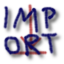
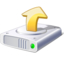
make all the buttons look nice

diff --git a/mapiphany.css b/mapiphany.css
@@ -248,14 +248,88 @@ a {
     fill: transparent;
 }
 
-input[name=save] {
-    background-image: url('stock_save_22.png');
+input[name=undo] {
+    background-image: url('action-undo.png');
     border: none;
+    width: 24px;
+    height: 24px;
+    background-color: white;
+}
+
+input[name=undo]:hover {
+    background-image: url('action-undo-hover.png');
+}
+
+input[name=redo] {
+    background-image: url('action-redo.png');
+    border: none;
+    width: 24px;
+    height: 24px;
+    background-color: white;
+}
+
+input[name=redo]:hover {
+    background-image: url('action-redo-hover.png');
+}
+
+input[name=print] {
+    background-image: url('action-print.png');
+    border: none;
+    width: 24px;
+    height: 24px;
+    background-color: white;
+}
+
+input[name=print]:hover {
+    background-image: url('action-print-hover.png');
+}
+
+input[name=export] {
+    background-image: url('document-export.png');
+    border: none;
+    width: 24px;
+    height: 24px;
+    background-color: white;
+}
+
+input[name=export]:hover {
+    background-image: url('document-export-hover.png');
+}
+
+input[name=save] {
+    background-image: url('document-save.png');
+    border: none;
+    width: 24px;
+    height: 24px;
+    background-color: white;
 }
 
 input[name=save]:hover {
-    background-image: url('stock_save_22_hover.png');
+    background-image: url('document-save-hover.png');
+}
+
+input[name=new-button] {
+    background-image: url('document-new.png');
     border: none;
+    width: 64px;
+    height: 64px;
+    background-color: white;
+}
+
+input[name=new-button]:hover {
+    background-image: url('document-new-hover.png');
+}
+
+input[name=import-button] {
+    background-image: url('document-import.png');
+    border: none;
+    width: 64px;
+    height: 64px;
+    background-color: white;
+}
+
+input[name=import-button]:hover {
+    background-image: url('document-import-hover.png');
 }
 
 #export-window-content textarea {

diff --git a/page.html b/page.html
@@ -61,8 +61,8 @@
 
   <div id="toolbar" class="f0">
     <input type="button" value="&nbsp;" name= "save" title="save" />
-    <input type="button" value="undo" name= "undo" title="undo" />
-    <input type="button" value="redo" name= "redo" title="redo" />
+    <input type="button" value="&nbsp;" name= "undo" title="undo" />
+    <input type="button" value="&nbsp;" name= "redo" title="redo" />
     <span class="f0">Name:</span> <input class="f1" type="text" name="mapName" value="${name}" />
     <span class="f0">Current:</span> <span id="current">{{tmpl({tile:"Grassland"}) "#brushes-tile"}}</span>
     <span>Zoom:</span> <select name="zoom">
@@ -75,8 +75,8 @@
         <option selected="selected" value="1mi">1 mile</option>
         <option value="halfmi">1/2 mile</option>
       </select>
-    <input type="button" value="print" name="print" title="print view in a new window" />
-    <input type="button" value="export" name="export" title="export to a window" />
+    <input type="button" value="&nbsp;" name="print" title="print view in a new window" />
+    <input type="button" value="&nbsp;" name="export" title="export to a window" />
   </div>
 </script> <!-- ]]] -->
 
@@ -154,18 +154,12 @@
 
       <div class="indicators f0">&nbsp;</div>
 
-      <div id="new-button" class="thumbnail f0 hbox">
-        <div class="thumbnail-inner f1">
-          <img src="document-new.png" alt="new"
-            title="new" />
-        </div>
+      <div class="thumbnail f0 hbox">
+        <input type="button" value="&nbsp;" name="new-button" title="new" />
       </div>
 
-      <div id="import-button" class="thumbnail f0 hbox">
-        <div class="thumbnail-inner f1">
-          <img src="document-import.png" alt="import"
-            title="import" />
-        </div>
+      <div class="thumbnail f0 hbox">
+        <input type="button" value="&nbsp;" name="import-button" title="import" />
       </div>
 
       <div class="details f1" />
